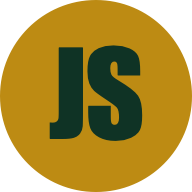
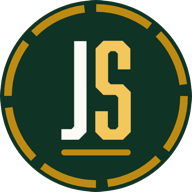
Replace the JS brand mark with the Abolition monogram badge
The header mark was CSS text in a gold circle. It is now a Poly Green disc
carrying the real Abolition J and S inside a notched gold ring, with a gold
rule under the letters.

The letters ship as mask images cut straight from the Typekit glyphs rather
than live text, so the mark never waits on Typekit and never flashes Arial
Narrow, and the header art is the same geometry the icon files are rendered
from.

On hover the badge tilts 12 degrees, the ring steps exactly one segment
(45 degrees, so a dash lands where the next dash was and it settles looking
identical), and a band of light crosses the letters. The existing global
prefers-reduced-motion rule already disables all of it.

Icon files regenerated from the same art. favicon.ico now carries 16, 32 and
48, and the 16 and 32 entries use a simplified drawing with no ring and larger
letters, since the ring is sub-pixel at those sizes. Every entry was verified
to decode with real, non-blank pixel data before shipping.

diff --git a/index.html b/index.html
@@ -19,7 +19,7 @@
 <meta name="twitter:card" content="summary_large_image">
 <!-- Real icon files, not a data URI: Google only shows a site icon in search results when it can fetch
      one as its own file, and it wants a square that is a multiple of 48px. -->
-<link rel="icon" href="/favicon.ico" sizes="32x32">
+<link rel="icon" href="/favicon.ico" sizes="16x16 32x32 48x48">
 <link rel="icon" type="image/png" sizes="192x192" href="/icon-192.png">
 <link rel="icon" type="image/png" sizes="512x512" href="/icon-512.png">
 <link rel="apple-touch-icon" href="/apple-touch-icon.png">
@@ -105,6 +105,11 @@
   --shadow-md:0 8px 24px rgba(21,71,52,.16);
   --nav-h:72px;
   --ease:cubic-bezier(.2,.7,.1,1);
+  /* The J and S of the brand mark, cut straight out of Abolition and carried as mask
+     images. The mark must not wait on Typekit or fall back to Arial Narrow, and these
+     are the exact shapes the favicon files are rendered from. */
[2 lines of base64/hex data omitted]
 }
 *,*::before,*::after{margin:0;padding:0;box-sizing:border-box}
 html{scroll-behavior:smooth;scroll-padding-top:var(--nav-h);-webkit-text-size-adjust:100%}
@@ -161,7 +166,23 @@ section{padding:clamp(72px,9vw,112px) 0;position:relative}
 .site-header.is-scrolled{box-shadow:0 8px 24px rgba(0,0,0,.18)}
 .nav{display:flex;align-items:center;justify-content:space-between;gap:24px;padding:14px 0}
 .brand{display:flex;align-items:center;gap:12px;text-decoration:none;color:#fff}
-.brand-mark{flex:none;display:flex;align-items:center;justify-content:center;width:40px;height:40px;border-radius:50%;background:var(--gold-500);color:var(--green-900);font-family:var(--font-head);font-weight:400;font-size:1.15rem;line-height:1}
+/* Brand mark: Abolition J and S on a Poly Green disc inside a notched gold ring.
+   On hover the badge tilts, the ring steps exactly one segment (45deg, so a dash lands
+   where the next dash was and it settles looking identical), and a band of light crosses
+   the letters. Geometry here is the same as the favicon art, expressed in percentages. */
+.brand-mark{flex:none;position:relative;width:40px;height:40px;transition:transform .6s var(--ease)}
+.brand:hover .brand-mark{transform:rotate(-12deg) scale(1.06)}
+.bm-disc{position:absolute;inset:0;border-radius:50%;overflow:hidden;background:var(--green-900)}
+.brand-mark i{position:absolute;display:block}
+.bm-j,.bm-s{height:52%;top:21%;-webkit-mask-repeat:no-repeat;mask-repeat:no-repeat;-webkit-mask-size:contain;mask-size:contain;-webkit-mask-position:center;mask-position:center}
+.bm-j{width:13.4%;left:31.74%;background:var(--cream-100);-webkit-mask-image:var(--glyph-j);mask-image:var(--glyph-j)}
+.bm-s{width:18.62%;left:49.64%;background:var(--gold-400);-webkit-mask-image:var(--glyph-s);mask-image:var(--glyph-s)}
+.bm-bar{left:31.74%;width:36.52%;height:3%;top:78%;border-radius:99px;background:var(--gold-500)}
+.bm-sweep{top:-25%;bottom:-25%;left:-28%;width:20%;background:linear-gradient(90deg,transparent,rgba(255,255,255,.32),transparent);transform:skewX(-18deg) translateX(0)}
+.bm-ring{position:absolute;inset:0;width:100%;height:100%;transition:transform .5s cubic-bezier(.34,.9,.22,1)}
+.brand:hover .bm-ring{transform:rotate(45deg)}
+.brand:hover .bm-sweep{animation:bmSweep 1s var(--ease)}
+@keyframes bmSweep{from{transform:skewX(-18deg) translateX(0)}to{transform:skewX(-18deg) translateX(760%)}}
 .brand-text{font-family:var(--font-head);font-weight:400;text-transform:uppercase;letter-spacing:.04em;font-size:1.45rem;line-height:1}
 .brand-text span{display:block;margin-top:3px;font-size:.62rem;letter-spacing:.15em;color:var(--gold-400)}
 .nav-menu{display:flex;align-items:center;gap:28px}
@@ -535,7 +556,7 @@ form .btn[disabled]{opacity:.75;cursor:wait}
 <header class="site-header">
   <nav class="wrap nav" aria-label="Primary">
     <a class="brand" href="#top">
-      <span class="brand-mark" aria-hidden="true">JS</span>
+      <span class="brand-mark" aria-hidden="true"><span class="bm-disc"><i class="bm-j"></i><i class="bm-s"></i><i class="bm-bar"></i><i class="bm-sweep"></i></span><svg class="bm-ring" viewBox="0 0 100 100" focusable="false"><circle cx="50" cy="50" r="46" fill="none" stroke="#bd8b13" stroke-width="4" stroke-dasharray="30 6.13"/></svg></span>
       <span class="brand-text">Jon Sioredas<span>Head Wrestling Coach · Cal Poly</span></span>
     </a>
     <button class="nav-toggle" type="button" aria-label="Menu" aria-expanded="false" aria-controls="nav-menu"><span></span><span></span><span></span></button>
